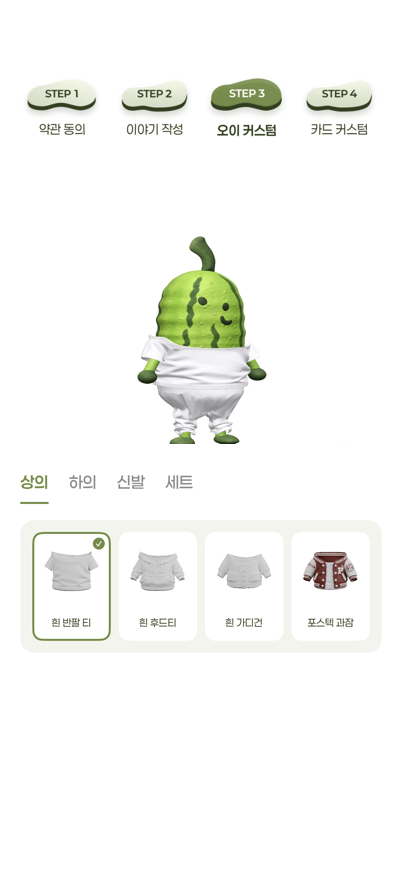
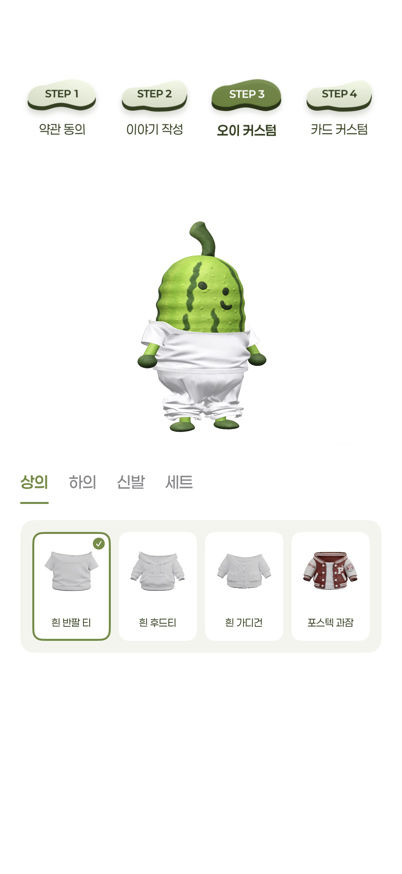
[feat] 확대된 오이의 위아래 이동 지원

Changed region(s): [[0.3284, 0.2471, 0.6866, 0.5252], [0.5672, 0.0927, 0.6567, 0.1236]]

diff --git a/apps/ios/OiDonation/Features/Profile/Creation/OiStep3CucumberPreview.swift b/apps/ios/OiDonation/Features/Profile/Creation/OiStep3CucumberPreview.swift
@@ -32,6 +32,7 @@ private final class OiStep3CucumberOrbit {
 
     var yaw: Float = 0
     var zoom: Float = 1
+    var verticalOffset: Float = 0
     var requestsPreview = false
 }
 
@@ -154,6 +155,10 @@ private struct OiStep3CucumberSurface: UIViewRepresentable {
             case failed
         }
 
+        private enum PanDirection {
+            case rotate, vertical
+        }
+
         private weak var host: OiStep3CucumberRenderHost?
         private let anchor = AnchorEntity(world: .zero)
         private let camera = PerspectiveCamera()
@@ -165,7 +170,8 @@ private struct OiStep3CucumberSurface: UIViewRepresentable {
         private var loadState = LoadState.loading
         private var onPresentationChange: ((OiStep3CucumberPresentation) -> Void)?
         private var depthCenter: Float?
-        private var orbitFrame: (center: SIMD3<Float>, distance: Float)?
+        private var orbitFrame: (center: SIMD3<Float>, distance: Float, height: Float)?
+        private var panDirection: PanDirection?
         private var shows3D = false
         private var lastRetry = 0
         private var model: Entity?
@@ -186,9 +192,20 @@ private struct OiStep3CucumberSurface: UIViewRepresentable {
             renderer.isAccessibilityElement = true
             renderer.accessibilityIdentifier = "oi.step3.cucumber.surface"
             renderer.accessibilityLabel = "오이 미리보기"
-            renderer.accessibilityHint = "드래그해서 돌리고 두 손가락으로 확대하거나 축소할 수 있어요. 동작 메뉴에서도 조절할 수 있어요."
+            renderer.accessibilityHint = "가로로 드래그해 돌리고 두 손가락으로 확대하거나 축소할 수 있어요. 확대하면 위아래로도 움직일 수 있어요."
             renderer.accessibilityValue = "정면 이미지"
-            renderer.accessibilityCustomActions = [
+            updateAccessibilityActions(for: renderer)
+            renderer.scene.addAnchor(anchor)
+
+            pan.maximumNumberOfTouches = 1
+            pan.delegate = self
+            pinch.delegate = self
+            renderer.addGestureRecognizer(pan)
+            renderer.addGestureRecognizer(pinch)
+        }
+
+        private func updateAccessibilityActions(for renderer: RealityKit.ARView) {
+            var actions = [
                 UIAccessibilityCustomAction(name: "왼쪽으로 돌리기") { [weak self] _ in
                     self?.rotate(by: -.pi / 6) ?? false
                 },
@@ -202,13 +219,17 @@ private struct OiStep3CucumberSurface: UIViewRepresentable {
                     self?.magnify(by: 1 / 1.15) ?? false
                 }
             ]
-            renderer.scene.addAnchor(anchor)
-
-            pan.maximumNumberOfTouches = 1
-            pan.delegate = self
-            pinch.delegate = self
-            renderer.addGestureRecognizer(pan)
-            renderer.addGestureRecognizer(pinch)
+            if orbit.zoom > 1 {
+                actions.append(contentsOf: [
+                    UIAccessibilityCustomAction(name: "위쪽 보기") { [weak self] _ in
+                        self?.panVertically(by: 0.1) ?? false
+                    },
+                    UIAccessibilityCustomAction(name: "아래쪽 보기") { [weak self] _ in
+                        self?.panVertically(by: -0.1) ?? false
+                    }
+                ])
+            }
+            renderer.accessibilityCustomActions = actions
         }
 
         func update(appearance: OiSeedCucumberAppearance, garments: Set<OiSeedCucumberGarment>, retry: Int,
@@ -320,6 +341,7 @@ private struct OiStep3CucumberSurface: UIViewRepresentable {
             presentationTask = nil
             onPresentationChange = nil
             host.didLayout = nil
+            panDirection = nil
             host.renderer.removeGestureRecognizer(pan)
             host.renderer.removeGestureRecognizer(pinch)
             host.renderer.accessibilityCustomActions = nil
@@ -409,24 +431,32 @@ private struct OiStep3CucumberSurface: UIViewRepresentable {
                 depthCenter
             )
             let halfFOV = camera.camera.fieldOfViewInDegrees * .pi / 360
-            let distance = Float(size.height / 2) * metresPerPoint / tan(halfFOV)
+            let height = Float(size.height) * metresPerPoint
+            let distance = height * 0.5 / tan(halfFOV)
             camera.camera.far = max(20, distance / OiStep3CucumberOrbit.zoomRange.lowerBound * 2)
-            orbitFrame = (center, distance)
+            orbitFrame = (center, distance, height)
             updateOrbit()
             return true
         }
 
         private func updateOrbit() {
-            guard let (center, fittedDistance) = orbitFrame else { return }
+            guard let (center, fittedDistance, fittedHeight) = orbitFrame else { return }
             let distance = fittedDistance / orbit.zoom
             let offset = SIMD3(sin(orbit.yaw) * distance, 0, cos(orbit.yaw) * distance)
-            camera.look(at: center, from: center + offset, relativeTo: nil)
+            let target = center + SIMD3(0, orbit.verticalOffset * fittedHeight, 0)
+            camera.look(at: target, from: target + offset, relativeTo: nil)
         }
 
         func gestureRecognizerShouldBegin(_ gestureRecognizer: UIGestureRecognizer) -> Bool {
             guard gestureRecognizer === pan else { return true }
-            let velocity = pan.velocity(in: pan.view)
-            return abs(velocity.x) > abs(velocity.y)
+            return direction(for: pan) != nil
+        }
+
+        private func direction(for gesture: UIPanGestureRecognizer) -> PanDirection? {
+            let velocity = gesture.velocity(in: gesture.view)
+            let motion = velocity == .zero ? gesture.translation(in: gesture.view) : velocity
+            if abs(motion.x) > abs(motion.y) { return .rotate }
+            return orbit.zoom > 1 && motion.y != 0 ? .vertical : nil
         }
 
         func gestureRecognizer(_ gestureRecognizer: UIGestureRecognizer,
@@ -436,12 +466,27 @@ private struct OiStep3CucumberSurface: UIViewRepresentable {
         }
 
         @objc private func didPan(_ gesture: UIPanGestureRecognizer) {
-            guard gesture.state == .began || gesture.state == .changed else { return }
-            let dx = Float(gesture.translation(in: gesture.view).x)
+            switch gesture.state {
+            case .began:
+                panDirection = direction(for: gesture)
+            case .changed:
+                break
+            default:
+                panDirection = nil
+                return
+            }
+            let translation = gesture.translation(in: gesture.view)
             gesture.setTranslation(.zero, in: gesture.view)
             guard pinch.state != .began && pinch.state != .changed else { return }
-            guard dx != 0 else { return }
-            _ = rotate(by: -dx * 0.01)
+            switch panDirection {
+            case .rotate where translation.x != 0:
+                _ = rotate(by: -Float(translation.x) * 0.01)
+            case .vertical:
+                guard let height = host?.renderer.bounds.height, height > 0 else { return }
+                _ = panVertically(by: Float(translation.y / height) / orbit.zoom)
+            default:
+                break
+            }
         }
 
         @objc private func didPinch(_ gesture: UIPinchGestureRecognizer) {
@@ -460,13 +505,32 @@ private struct OiStep3CucumberSurface: UIViewRepresentable {
             return true
         }
 
+        private func clampedVerticalOffset(_ offset: Float) -> Float {
+            // Keep the zoomed viewport within the original vertical framing.
+            let limit = max(0, (1 - 1 / orbit.zoom) * 0.5)
+            return min(limit, max(-limit, offset))
+        }
+
+        private func panVertically(by offset: Float) -> Bool {
+            guard host != nil, loadState != .failed, orbit.zoom > 1, offset.isFinite else { return false }
+            let position = clampedVerticalOffset(orbit.verticalOffset + offset)
+            guard position != orbit.verticalOffset else { return false }
+            orbit.verticalOffset = position
+            updateOrbit()
+            requestPreview()
+            return true
+        }
+
         private func magnify(by factor: Float) -> Bool {
-            guard host != nil, loadState != .failed, factor.isFinite, factor > 0 else { return false }
+            guard let host, loadState != .failed, factor.isFinite, factor > 0 else { return false }
             let range = OiStep3CucumberOrbit.zoomRange
             let zoom = min(range.upperBound, max(range.lowerBound, orbit.zoom * factor))
             if orbit.zoom != zoom {
+                let wasZoomedIn = orbit.zoom > 1
                 orbit.zoom = zoom
+                orbit.verticalOffset = clampedVerticalOffset(orbit.verticalOffset)
                 updateOrbit()
+                if wasZoomedIn != (zoom > 1) { updateAccessibilityActions(for: host.renderer) }
             }
             requestPreview()
             return true

diff --git a/apps/ios/OiDonationTests/OiFigmaFidelityVisualTests.swift b/apps/ios/OiDonationTests/OiFigmaFidelityVisualTests.swift
@@ -601,22 +601,50 @@ final class OiFigmaFidelityVisualTests: XCTestCase {
             try await self.waitForStep3 { surface.accessibilityValue == "3D 미리보기" }
 
             let camera = try self.step3Camera(in: surface)
-            let normal = camera.position(relativeTo: nil).z
+            let normal = camera.position(relativeTo: nil)
             try self.applyStep3Pinch(pinch, state: .changed, scale: 10)
             let closest = camera.position(relativeTo: nil).z
-            XCTAssertLessThan(closest, normal)
+            XCTAssertLessThan(closest, normal.z)
             try self.applyStep3Pinch(pinch, state: .changed, scale: 10)
             XCTAssertEqual(camera.position(relativeTo: nil).z, closest, accuracy: 0.001)
             try self.applyStep3Pinch(pinch, state: .changed, scale: 0.9)
             XCTAssertGreaterThan(camera.position(relativeTo: nil).z, closest)
 
+            try self.applyStep3Pinch(pinch, state: .ended, scale: 1)
+            let centered = camera.position(relativeTo: nil)
+            let forward = camera.orientation(relativeTo: nil).act(SIMD3<Float>(0, 0, -1))
+            let pan = Step3TestPan()
+            pan.dragVelocity = CGPoint(x: 0, y: 200)
+            try self.applyStep3Pan(pan, in: surface, state: .began, delta: CGPoint(x: 0, y: 20))
+            XCTAssertGreaterThan(camera.position(relativeTo: nil).y, centered.y)
+
+            try self.applyStep3Pan(pan, in: surface, state: .changed, delta: CGPoint(x: 4000, y: 1000))
+            let top = camera.position(relativeTo: nil)
+            try self.applyStep3Pan(pan, in: surface, state: .changed, delta: CGPoint(x: 0, y: 1000))
+            XCTAssertEqual(camera.position(relativeTo: nil).y, top.y, accuracy: 0.001)
+            try self.applyStep3Pan(pan, in: surface, state: .changed, delta: CGPoint(x: 0, y: -2000))
+            let bottom = camera.position(relativeTo: nil)
+            XCTAssertLessThan(bottom.y, centered.y)
+            XCTAssertEqual(bottom.x, centered.x, accuracy: 0.001)
+            XCTAssertEqual(bottom.z, centered.z, accuracy: 0.001)
+            XCTAssertEqual(simd_distance(camera.orientation(relativeTo: nil).act(SIMD3<Float>(0, 0, -1)), forward),
+                           0, accuracy: 0.001)
+            try self.applyStep3Pan(pan, in: surface, state: .ended, delta: .zero)
+
+            try self.applyStep3Pinch(pinch, state: .began, scale: 1)
+            XCTAssertEqual(camera.position(relativeTo: nil).y, bottom.y, accuracy: 0.001)
             try self.applyStep3Pinch(pinch, state: .changed, scale: 0.1)
             let farthest = camera.position(relativeTo: nil).z
-            XCTAssertGreaterThan(farthest, normal)
+            XCTAssertGreaterThan(farthest, normal.z)
+            XCTAssertEqual(camera.position(relativeTo: nil).y, normal.y, accuracy: 0.001)
             try self.applyStep3Pinch(pinch, state: .changed, scale: 0.1)
             XCTAssertEqual(camera.position(relativeTo: nil).z, farthest, accuracy: 0.001)
             try self.applyStep3Pinch(pinch, state: .changed, scale: 1.1)
             XCTAssertLessThan(camera.position(relativeTo: nil).z, farthest)
+            try self.applyStep3Pinch(pinch, state: .ended, scale: 1)
+            try self.applyStep3Pan(pan, in: surface, state: .began, delta: CGPoint(x: 0, y: 60))
+            XCTAssertEqual(camera.position(relativeTo: nil).y, normal.y, accuracy: 0.001)
+            try self.applyStep3Pan(pan, in: surface, state: .ended, delta: .zero)
             return surface
         })
     }
@@ -672,6 +700,13 @@ final class OiFigmaFidelityVisualTests: XCTestCase {
             try self.applyStep3Pinch(pinch, state: .changed, scale: 1.24)
             let zoomed = camera.position(relativeTo: nil)
             XCTAssertGreaterThan(simd_distance(turned, zoomed), 0.2)
+            try self.applyStep3Pinch(pinch, state: .ended, scale: 1)
+            let pan = Step3TestPan()
+            pan.dragVelocity = CGPoint(x: 0, y: -200)
+            try self.applyStep3Pan(pan, in: surface, state: .began, delta: CGPoint(x: 0, y: -15))
+            try self.applyStep3Pan(pan, in: surface, state: .ended, delta: .zero)
+            let reframed = camera.position(relativeTo: nil)
+            XCTAssertLessThan(reframed.y, zoomed.y)
 
             draft.value.seedWhiteTshirt = nil
             try await self.waitForStep3 { model.findEntity(named: shirtName) == nil }
@@ -688,7 +723,7 @@ final class OiFigmaFidelityVisualTests: XCTestCase {
             XCTAssertTrue(surface.scene.findEntity(named: "SeedCucumber") === model)
             XCTAssertTrue(model.findEntity(named: "LeftEye") === eye)
             XCTAssertEqual(eye.transformMatrix(relativeTo: model).columns.3, faceTransform.columns.3)
-            XCTAssertEqual(simd_distance(camera.position(relativeTo: nil), zoomed), 0, accuracy: 0.001)
+            XCTAssertEqual(simd_distance(camera.position(relativeTo: nil), reframed), 0, accuracy: 0.001)
             return surface
         })
         XCTAssertEqual(draft.value.seedAppearance, appearance)
@@ -740,10 +775,45 @@ final class OiFigmaFidelityVisualTests: XCTestCase {
 
     private func applyStep3Pinch(_ pinch: UIPinchGestureRecognizer, state: UIGestureRecognizer.State,
                                  scale: CGFloat) throws {
-        pinch.state = state
-        pinch.scale = scale
         let target = try XCTUnwrap(pinch.delegate)
-        XCTAssertTrue(UIApplication.shared.sendAction(NSSelectorFromString("didPinch:"), to: target, from: pinch, for: nil))
+        // Send the recognizer callback without changing UIKit's active touch state.
+        let gesture = Step3TestPinch()
+        gesture.state = state
+        gesture.scale = scale
+        XCTAssertTrue(UIApplication.shared.sendAction(NSSelectorFromString("didPinch:"), to: target, from: gesture, for: nil))
+    }
+
+    private final class Step3TestPinch: UIPinchGestureRecognizer {
+        private var simulatedState: State = .possible
+
+        override var state: State {
+            get { simulatedState }
+            set { simulatedState = newValue }
+        }
+    }
+
+    private final class Step3TestPan: UIPanGestureRecognizer {
+        private var simulatedState: State = .possible
+        var dragVelocity = CGPoint.zero
+        var delta = CGPoint.zero
+
+        override var state: State {
+            get { simulatedState }
+            set { simulatedState = newValue }
+        }
+
+        override func velocity(in view: UIView?) -> CGPoint { dragVelocity }
+        override func translation(in view: UIView?) -> CGPoint { delta }
+        override func setTranslation(_ translation: CGPoint, in view: UIView?) { delta = translation }
+    }
+
+    private func applyStep3Pan(_ pan: Step3TestPan, in surface: RealityKit.ARView,
+                               state: UIGestureRecognizer.State, delta: CGPoint) throws {
+        let installedPan = surface.gestureRecognizers?.compactMap { $0 as? UIPanGestureRecognizer }.first
+        let target = try XCTUnwrap(installedPan?.delegate)
+        pan.state = state
+        pan.delta = delta
+        XCTAssertTrue(UIApplication.shared.sendAction(NSSelectorFromString("didPan:"), to: target, from: pan, for: nil))
     }
 
     private func step3Surface(in host: UIView) async throws -> RealityKit.ARView {

diff --git a/docs/architecture.md b/docs/architecture.md
@@ -330,9 +330,11 @@ MY 도감 정렬·핀 필터를 MYDemoStore의 공유 화면 상태로 관리하
 
 2026-11-12 #289의 3D 미리보기는 본 앱에 번들된 `SeedCucumberMaster.usdz`를 RealityKit으로 불러온다. 기준 모델은 정면 원화의 실루엣, 피부 요철과 줄무늬, 얼굴과 꼭지를 반영하며 측면과 뒷면은 같은 피부가 이어지도록 제작했다. 버튼을 누른 시점의 `OiSeedCucumberAppearance`로 키와 체형을 반영하고, 움직인 얼굴은 `SeedCucumberSurface.json`의 표면 깊이에 맞춘다. 꼭지는 기존 편집 좌표의 변형을 적용하고 밑동을 고정한다. 자산 로딩, 편집값 반영, 화면 표시는 모두 기기에서 처리한다.
 
-2026-11-12 #299에서 STEP 3은 기존 미리보기 영역과 의상 카테고리를 사용한다. `OiStep3CucumberPreview`는 같은 정면 원화 뒤에서 `SeedCucumberMaster.usdz`의 RealityKit 장면을 미리 준비한다. 드래그나 핀치가 먼저 들어오면 카메라 상태에 반영하고 렌더링이 준비되는 대로 같은 장면을 표시한다. 핀치는 카메라 거리만 조절하고 한 손가락 드래그는 회전 각도를 바꾼다. 얼굴 편집의 적용 값은 `OiDraftCustomization.seedAppearance`에 저장하며 기존 초안의 누락 값은 기본 외형으로 표시한다.
+2026-11-12 #299에서 STEP 3은 기존 미리보기 영역과 의상 카테고리를 사용한다. `OiStep3CucumberPreview`는 같은 정면 원화 뒤에서 `SeedCucumberMaster.usdz`의 RealityKit 장면을 미리 준비한다. 드래그나 핀치가 먼저 들어오면 카메라 상태에 반영하고 렌더링이 준비되는 대로 같은 장면을 표시한다. 핀치는 카메라 거리를 조절하고 가로 드래그는 회전 각도를 바꾼다. 확대 상태에서 세로 드래그는 카메라와 바라보는 지점을 함께 옮겨 오이의 위아래를 보여 준다. 기본 배율로 줄이면 중심으로 돌아온다. 얼굴 편집의 적용 값은 `OiDraftCustomization.seedAppearance`에 저장하며 기존 초안의 누락 값은 기본 외형으로 표시한다.
 
 `SeedCucumberWhiteTshirt.usdz`와 `SeedCucumberLongPants.usdz`는 `wardrobe-tshirt-long.usdz`의 상의·하의 메시를 기본 맨몸 오이 좌표에 맞춘 번들 에셋이다. 흰 긴바지의 색과 재질, 목록 썸네일은 기존 자산을 사용한다. 두 의상은 오이와 같은 키·체형 변환 아래에 각각 붙이며, 입거나 벗을 때 같은 씬과 카메라를 유지한다. STEP 3 착용 여부는 기기 초안의 선택적 필드 `seedWhiteTshirt`와 `seedLongPants`에 저장한다. 기존 의상 에셋과 카드·지도 데이터는 현재 계약을 사용한다.
+
+같은 날 후속 수정(#299)으로 흰 긴바지의 허리와 길이를 유지하면서 허벅지부터 밑단까지 통을 넓혔다. 두 바짓단과 발 사이의 간격은 기준 메시에서 확보하고, 키·체형 변경 시에도 몸과 반팔의 겹침 관계를 유지하도록 같은 변환을 적용한다.
 
 `OiLocalDraft`의 선택적 `creationStep`·`customization`·`removedMediaPaths`는 구버전 초안을 그대로 읽을 수 있게 추가한다. `OiDraftCustomization`은 로컬 미리보기 전용이며 `OiStoryDraft.payload()`나 공유 DB를 확장하지 않는다. 업로드 사진 순서를 유지하고 기기 사본과 서버 경로를 중복 표시하지 않는다. 기존 `attach_media` RPC로 사진 연결을 변경하며, 변경 직후 목록 동기화가 실패해도 응답의 revision과 경로를 보존한다.
 

diff --git a/project.md b/project.md
@@ -81,7 +81,7 @@
 
 2026-11-12 확정(#289)으로 오이 커스텀의 **3D 랜더링** 버튼에서 현재 눈·입·꼭지·몸체 편집값을 기기 내 3D 미리보기에 반영한다. 미리보기에서는 오이를 회전하고 확대할 수 있으며, 닫으면 편집 상태를 유지한다. 3D 기준 모델은 정면 원화의 실루엣과 피부·얼굴 디테일을 우선 보존한다. 측면과 뒷면은 확인 가능한 원화에 맞춰 이어지도록 제작한다.
 
-2026-11-12 후속 요청(#299)으로 오이 만들기 STEP 3의 기존 미리보기 영역에 맨몸 오이의 정면 원화를 먼저 표시한다. 완료 버튼 위의 얼굴 버튼에서 눈·입·꼭지·몸체를 편집하고 적용한 값은 기기 초안에 저장한다. 의상 목록을 보는 동안 3D 모델을 기기에서 준비하며, 한 손가락 드래그로 회전하고 두 손가락 핀치로 확대·축소할 수 있다. 흰 반팔 티와 기존 흰 긴바지는 각각 착용하며 동시에 입을 수 있다. 같은 항목을 다시 누르면 벗으며 다른 의상은 탐색용으로 둔다. 착용 선택을 기기 초안에 저장하고 기존 의상 에셋을 보존한다.
+2026-11-12 후속 요청(#299)으로 오이 만들기 STEP 3의 기존 미리보기 영역에 맨몸 오이의 정면 원화를 먼저 표시한다. 완료 버튼 위의 얼굴 버튼에서 눈·입·꼭지·몸체를 편집하고 적용한 값은 기기 초안에 저장한다. 의상 목록을 보는 동안 3D 모델을 기기에서 준비하며, 가로 드래그로 회전하고 두 손가락 핀치로 확대·축소할 수 있다. 확대 상태에서는 세로 드래그로 오이의 위아래를 볼 수 있다. 흰 반팔 티와 기존 흰 긴바지는 각각 착용하며 동시에 입을 수 있다. 같은 항목을 다시 누르면 벗으며 다른 의상은 탐색용으로 둔다. 착용 선택을 기기 초안에 저장하고 기존 의상 에셋을 보존한다.
 
 아래는 이전 화면 결정 기록이다. 작성 승인, 임시 작성 모드, 필수 기부 동의와 기존 씨앗 진입에 관한 과거 결정은 #234가 대체한다.
 
